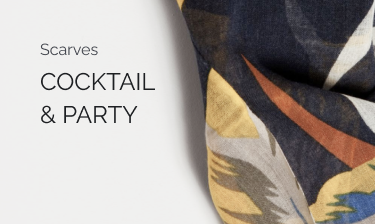
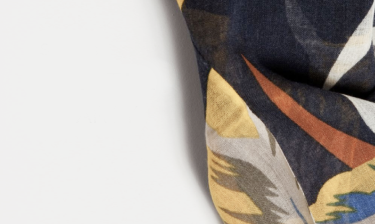
Add files via upload

Changed region(s): [[0.088, 0.3125, 0.4107, 0.4062], [0.088, 0.4688, 0.3813, 0.5625], [0.088, 0.1875, 0.264, 0.25]]

diff --git a/index.html b/index.html
@@ -15,8 +15,7 @@
             <form>
                 <input placeholder="Search for items" type="text"
                 id="fname" name="fname"><br>
-            </form>
-  
+            </form>  
             <img src="Search.png" alt="lupa">
         </div>
         <div class="a_line"></div>    
@@ -25,27 +24,47 @@
         <div class="a_box-collection">
             <img src="box1.png" width="450px" class="box1_modelo" alt="modelo1">
             <div class="a_box1">
-                <h1>SUMMER COLLECTION 2019</h1>
-                <h3>Colorful summer <br> dresses are <br> already in store</h3>
+                <h3>SUMMER COLLECTION 2019</h3>
+                <h1>Colorful summer <br> dresses are <br> already in store</h1>
             </div>
         </div>
         <div class="a_box-collection2">
             <img src="box2.png" width="450px" class="box2_modelo" alt="modelo2">
             <div class="a_box2">
-                <h1>Scarves</h1>
-                <h3>COCKTAIL <br> & PARTY</h3>
+                <h3>Scarves</h3>
+                <h1 class="letter_fine">COCKTAIL <br> & PARTY</h1>
             </div>
         </div>    
         <div class="a_box-collection3">
             <img src="box3.png" width="450px" class="box3_modelo" alt="modelo2">
             <div class="a_box3">
-                <h1>Scarves</h1>
-                <h3>Linen <br> dresses</h3>
+                <h3>Scarves</h3>
+                <h1 class="letter_fine">LINEN <br> DRESSES</h1>
             </div>
         </div>
         <div class="a_best-seller">
             <h1>Best Seller</h1>
         </div>  
+        <div class="a_box_products">
+            <img src="Roupa1.png" width="140px" class="roupa1" alt="roupa1">
+            <img src="Roupa2.png" width="140px" class="roupa2" alt="roupa2">
+            <img src="Roupa3.png" width="80px" class="roupa3" alt="roupa3">
+        </div>
+        <div class="box_desc">
+            <h3 class="box_desc1">Vila stripe shirt dress</h3>
+            <h3 class="box_desc2">Vila stripe shirt dress</h3>
+        </div>
+        <div class="box_money">
+            <h3 class="money">$50.00</h3>
+            <h3 class="money">$50.00</h3>
+        </div>
+        <div class="a_subscribe">
+            <h1>Subscribe to Newsletters</h1>
+            <h3 class="h3_subscribe">Be aware of upcoming sales and events. <br> Receive gifts and special offers!</h3>
+            <div class="botton-subscribe">
+                SUBSCRIBE
+            </div>
+        </div>
     </section>
 </body>
 </html>

diff --git a/style.css b/style.css
@@ -3,6 +3,9 @@
     padding: 0;
     box-sizing: border-box;
 }
+body{
+    font-family: Calibri, sans-serif;
+}    
 .a_logo{
     display: flex;
     justify-content: center;
@@ -11,9 +14,10 @@
 .a_pesquisa{
     display: flex;
     flex-direction: row;
-    gap: 200px;
+    justify-content: space-between;
     padding-left: 20px;
     padding-top: 20px;
+    padding-right: 20px;
 }
 .a_line{
     margin: 10px auto;
@@ -40,6 +44,7 @@ input::placeholder{
 .a_box1{
     position: absolute;
     bottom: 70px;
+    padding-left: 30px;
 }
 .a_box-collection2{
     padding-top: 20px;
@@ -49,7 +54,8 @@ input::placeholder{
 }
 .a_box2{
     position: absolute;
-    bottom: 70px;
+    bottom: 120px;
+    padding-left: 60px;
 }
 .a_box-collection3{
     padding-top: 20px;
@@ -59,11 +65,78 @@ input::placeholder{
 }
 .a_box3{
     position: absolute;
-    bottom: 70px;
+    bottom: 120px;
+    padding-left: 60px;
 }
 .a_best-seller{
     display: flex;
     justify-content: center;
     align-items: center;
     padding: 60px 0;
+}
+h3{
+    font-size: 16px;
+    color: rgb(61, 61, 61);
+    font-weight: lighter;
+}
+h1{
+    font-weight: normal;
+    font-size: 32px;
+    letter-spacing: -1px;
+    line-height: 32px;
+}
+.letter_fine{
+    font-weight: lighter;
+    font-size: 32px;
+    letter-spacing: -1px;  
+    padding-top: 6px;
+}
+.roupa1{
+    margin-left: 15px;
+}
+.roupa2{
+    margin-left: 10px;
+}
+.roupa3{
+    margin-left: 10px;
+}
+.a_box_products{
+    display: flex;
+    flex-direction: row;
+}
+.box_desc{
+    display: flex;
+    flex-direction: row;
+    margin-left: 18px;
+    font-size: 16px;
+    gap:15px;
+}
+.box_money{
+    display: flex;
+    flex-direction: row;
+    margin-left: 18px;
+    gap:100px;
+}
+.a_subscribe{
+    display: flex;
+    padding: 60px 0;
+    justify-content: center;
+    align-items: center;
+    flex-direction: column;
+    background-color: rgb(105, 105, 105);
+    margin-top: 60px;
+    color: white;
+}
+.botton-subscribe{
+    display: flex;
+    background-color: rgb(90, 190, 90);
+    width: 300px;
+    height: 40px;
+    justify-content: center;
+    align-items: center;
+    margin-top: 20px;
+}
+.h3_subscribe{
+    color: white;
+    margin-left: -40px;
 }
